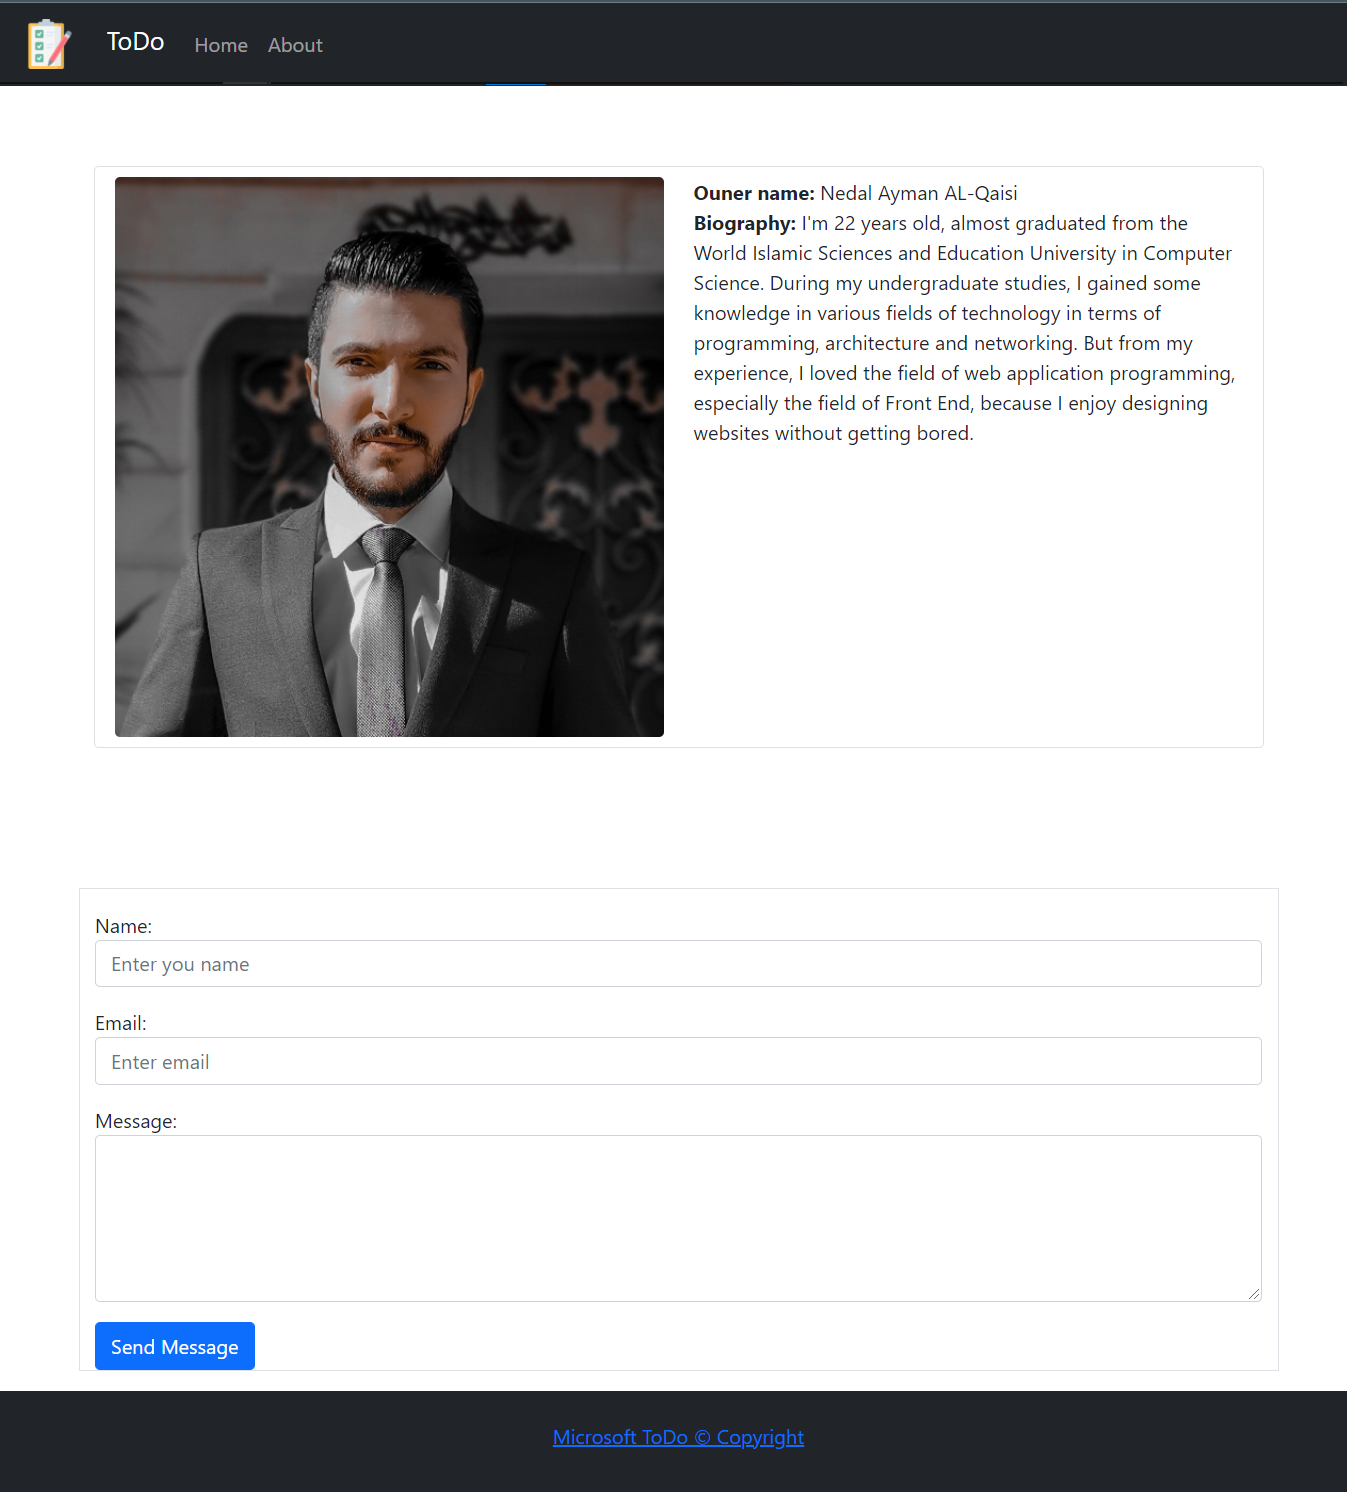
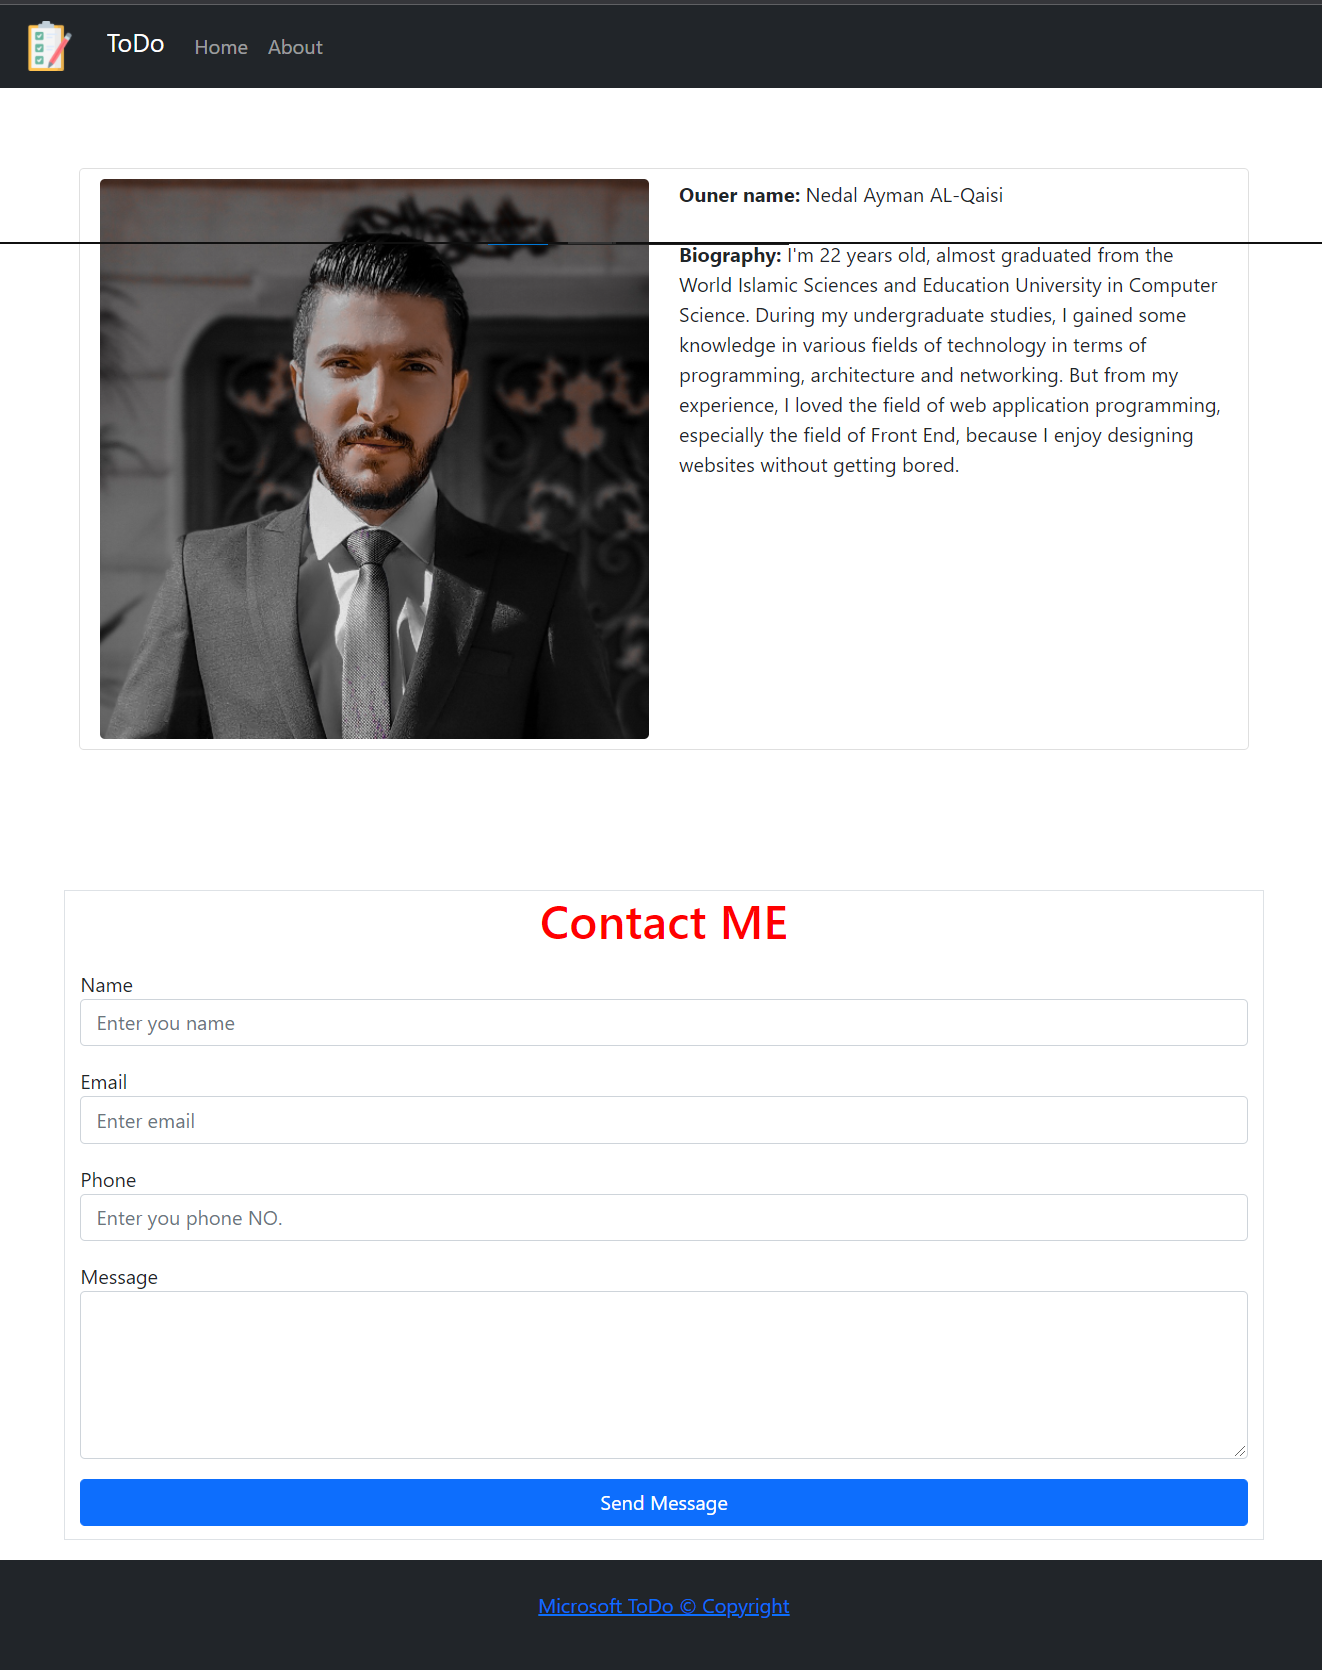
Designing a project using CSS

diff --git a/index.html b/index.html
@@ -10,7 +10,8 @@
     <title>ToDo | Home Page</title>
 </head>
 <body>
-    <nav class="navbar navbar-expand-sm bg-dark navbar-dark">
+    <header>
+         <nav class="navbar navbar-expand-sm bg-dark navbar-dark">
         <!-- Brand/logo -->
         <a class="navbar-brand" href="index.html">
           <img src="assets/2666505.png" alt="logo" style="width:40px; margin: 0 20px;"> ToDo
@@ -25,53 +26,73 @@
             <a class="nav-link" href="about.html">About</a>
           </li>
         </ul>
-    </nav>
+        </nav>
+    </header>    
     <br><br><br><br>
-
-    <div class="container">
-        <table class="table table-bordered table-responsive-sm	">
-            <thead class="bg-info text-center ">
+    <main>
+<section id="section-table">
+    <div id="table-todo">
+        <table class="table table-bordered">
+            <thead class="bg-info">
             <tr>
-                <th>ToDo</th>
+                <th id="header-todo">ToDo</th>
                 <th>Statues</th>
             </tr>
             </thead>
             <tbody>
             <tr>
-                <td>task 1</td>
-                <td class=" text-center ">
+                
+                <td>
                     <div class=" container form-check">
+                        <label class="form-check-label" for="check1">Leaen JS</label>
                         <input type="checkbox" class="form-check-input" id="check1" name="option1" value="something" >
-                        <label class="form-check-label" for="check1">Don</label>
                     </div>
                 </td>
+                <td ><img id="color" src="assets/green.png" alt=""></td>
             </tr>
             <tr>
-                <td>task 2</td>
-                <td class=" text-center ">
+                <td >
                     <div class=" container form-check">
+                        <label class="form-check-label" for="check1">Create HTML page </label>
                         <input type="checkbox" class="form-check-input" id="check1" name="option1" value="something" >
-                        <label class="form-check-label" for="check1">Don</label>
+
                     </div>
                 </td>
+                <td ><img id="color" src="assets/red.png" alt=""></td>
+
             </tr>
             <tr>
-                <td>task 3</td>
-                <td class=" text-center ">
+                <td >
                     <div class=" container form-check">
+                        <label class="form-check-label" for="check1">walk the dog</label>
                         <input type="checkbox" class="form-check-input" id="check1" name="option1" value="something" >
-                        <label class="form-check-label" for="check1">Don</label>
+
                     </div>
                 </td>
+                <td ><img id="color" src="assets/red.png" alt=""></td>
+
+
+            </tr>
+
+            <tr>
+                <td >
+                    <div class=" container form-check">
+                        <label class="form-check-label" for="check1">Watch the match</label>
+                        <input type="checkbox" class="form-check-input" id="check1" name="option1" value="something" >
+
+                    </div>
+                </td>
+                <td ><img id="color" src="assets/red.png" alt=""></td>
 
             </tr>
             </tbody>
         </table>
     </div>
-
+</section>
     <br><br><br><br>
     <br><br><br><br>
     <br><br><br><br>
+</main>
 
     <footer class="bg-dark">
         

diff --git a/about.html b/about.html
@@ -10,6 +10,7 @@
     <title>ToDo | About</title>
 </head>
 <body>
+  <header>
     <nav class="navbar navbar-expand-sm bg-dark navbar-dark">
         <!-- Brand/logo -->
         <a class="navbar-brand" href="index.html">
@@ -26,7 +27,10 @@
           </li>
         </ul>
     </nav>
+  </header>
     <br><br>
+  <main>
+    <section>
     <div class="container">
         <ul class="list-group mt-md-3">
             
@@ -40,6 +44,8 @@
                             <div class="col-12">
                                 <b>Ouner name:</b> Nedal Ayman AL-Qaisi
                             </div>
+                            <br><br>
+
                             <div class="col-12 ">
                                 <b>Biography:</b>  I'm 22 years old, almost graduated from the World Islamic Sciences and Education University in Computer Science.
 
@@ -49,39 +55,42 @@
                     </div>
                 </div>
             </li>
-    
-    
-    
-    
         </ul>
-    
-   
-    
     </div>
     <br><br><br><br>
+    </section>  
+
+    <section>
 
     <div class="container mt-3 border">
         <form >
+            <h1>Contact ME</h1>
         <div class="mb-3 mt-3">
-          <label for="name">Name:</label>
+          <label for="name">Name</label>
           <input type="name" class="form-control" id="name" placeholder="Enter you name" >
         </div>
         <div class="mb-3 mt-3">
-            <label for="email">Email:</label>
+            <label for="email">Email</label>
             <input type="email" class="form-control" id="email" placeholder="Enter email" >
           </div>
+
           <div class="mb-3 mt-3">
-            <label for="comment">Message:</label>
+            <label for="phone">Phone</label>
+            <input type="phone" class="form-control" id="name" placeholder="Enter you phone NO." >
+          </div>
+
+          <div class="mb-3 mt-3">
+            <label for="comment">Message</label>
             <textarea class="form-control" rows="5" id="comment" name="text"></textarea>
           </div>
-        <button type="submit" class="btn btn-primary">Send Message</button>
-        <br>
+        <button type="submit" class="btn btn-primary btnforsend col-12">Send Message</button>
       </form>
     </div>
+  </section>
 
 
 
-
+  </main>
 
     <footer class="bg-dark">
         

diff --git a/style/index.css b/style/index.css
@@ -1,0 +1,34 @@
+.form-check-label{
+    gap: 100px;
+    line-height: 1;
+}
+
+.form-check-input {
+    width: 13px;
+    right: 10px;
+}
+   
+#header-todo{
+    padding-left: 50px;
+    padding-right: 50px;
+    width: 252px;
+}
+
+#table-todo{
+    display: flex;
+    text-align: center;
+    padding-left: 0px;
+    padding-right: 0px;
+    width: 500px;
+    margin:auto;
+}
+
+#section-table{
+    align-items: center;
+}
+
+#color{
+    width: 120px;
+    height: 25px;
+    
+}

diff --git a/style/about.css b/style/about.css
@@ -1,0 +1,11 @@
+h1{
+    color: rgb(255, 0, 0);
+    text-align: center;
+}
+
+
+.btnforsend{
+
+    margin-bottom: 10px;
+
+}

diff --git a/README.md b/README.md
@@ -14,8 +14,8 @@ About Page
 
 
 
-- What observations or questions do you have about what you’ve learned so far?
-From my impressions so far... I hate wireframe work because sometimes it doesn't match the actual work.
+- What observations or questions do you have about what you’ve learned so far? \
+Things are under control
 
-- How long did it take you to complete this assignment? And, before you started, how long did you think it would take you to complete this assignment?
-I was expecting it to take me half an hour, but it took me two hours because of the wireframe.
+- How long did it take you to complete this assignment? And, before you started, how long did you think it would take you to complete this assignment?\
+The whole process took 45 minutes.
